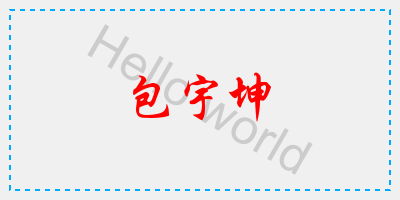
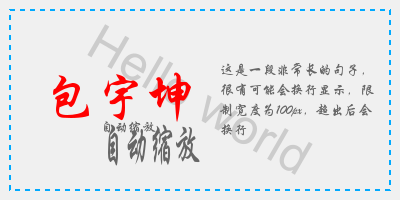
添加换行文字、缩放文字等功能

diff --git a/src/index.ts b/src/index.ts
@@ -1,12 +1,14 @@
 import { CanvasRenderingContext2D } from "canvas";
 import createCanvas from "./createCanvas";
 
-interface MutipleLineTextSettings{
-  width: number;
+interface TextSettings{
+  width?: number;
   height?: number;
+  autoScale?: boolean;
+  wrap?: boolean;
+  breakWord?: boolean;
   overflow?: 'auto' | 'hidden';
   lineHeight?: number;
-  breakWord?: true;
   align?: 'left' | 'center' | 'right';
   vAlign?: 'top' | 'middle' | 'bottom';
 }
@@ -69,7 +71,71 @@ export class Painter {
     return this
   }
 
-  mutipleLineText (text: string, x: number, y: number, options: MutipleLineTextSettings) {
+  text (content: string, x: number, y: number, options: TextSettings): Painter {
+    const { autoScale = false, wrap = true } = options
+    if (wrap && options.width) return this.mutipleLineText(content, x, y, options);
+    if (autoScale && (options.width || options.height)) return this.autoScaleText(content, x, y, options);
+
+    const fontSize = this.fontSize()
+    const {
+      width = this.measureTextWidth(content),
+      lineHeight = fontSize,
+      align = 'left',
+      vAlign = 'top',
+      overflow = 'hidden'
+    } = options
+    const height = options.height || lineHeight;
+
+    const x0 = align === 'left' ? x : align === 'center' ? x - width / 2 : x - width;
+    const y0 = vAlign === 'top' ? y : vAlign === 'middle' ? y - height / 2 : y - height;
+
+    this.ctx.save();
+    this.set({
+      textAlign: 'left',
+      textBaseline: 'top'
+    })
+    if (overflow === 'hidden') {
+      this.ctx.beginPath();
+      this.ctx.rect(x0, y0, width, height);
+      this.ctx.closePath();
+      this.ctx.clip();
+    }
+    this.ctx.fillText(content, x0, y0);
+    this.ctx.restore();
+
+    return this;
+  }
+
+  autoScaleText (text: string, x: number, y: number, options: TextSettings): Painter {
+    const fontSize = this.fontSize()
+    let {
+      width,
+      height,
+      lineHeight = fontSize,
+      align = 'left',
+      vAlign = 'top'
+    } = options
+
+    const tw = this.measureTextWidth(text);
+    if (width === undefined) width = height / lineHeight * tw;
+    if (height === undefined) height = fontSize * width / tw;
+    const x0 = align === 'left' ? x : align === 'center' ? x - width / 2 : x - width;
+    const y0 = vAlign === 'top' ? y : vAlign === 'middle' ? y - height / 2 : y - height;
+
+    this.ctx.save();
+    this.set({
+      textAlign: 'left',
+      textBaseline: 'top'
+    })
+    this.ctx.translate(x0, y0);
+    this.ctx.scale(width / tw, height / lineHeight);
+    this.ctx.fillText(text, 0, 0);
+    this.ctx.restore();
+
+    return this;
+  }
+
+  mutipleLineText (text: string, x: number, y: number, options: TextSettings): Painter {
     const originalAlign = this.ctx.textAlign;
     const originalBaseline = this.ctx.textBaseline;
     const fontSize = this.fontSize()
@@ -138,8 +204,6 @@ export class Painter {
       textAlign: originalAlign,
       textBaseline: originalBaseline
     })
-
-    console.log('multiple line text')
 
     return this
   }

diff --git a/lib/index.js b/lib/index.js
@@ -51,6 +51,53 @@ class Painter {
         }
         return this;
     }
+    text(content, x, y, options) {
+        const { autoScale = false, wrap = true } = options;
+        if (wrap && options.width)
+            return this.mutipleLineText(content, x, y, options);
+        if (autoScale && (options.width || options.height))
+            return this.autoScaleText(content, x, y, options);
+        const fontSize = this.fontSize();
+        const { width = this.measureTextWidth(content), lineHeight = fontSize, align = 'left', vAlign = 'top', overflow = 'hidden' } = options;
+        const height = options.height || lineHeight;
+        const x0 = align === 'left' ? x : align === 'center' ? x - width / 2 : x - width;
+        const y0 = vAlign === 'top' ? y : vAlign === 'middle' ? y - height / 2 : y - height;
+        this.ctx.save();
+        this.set({
+            textAlign: 'left',
+            textBaseline: 'top'
+        });
+        if (overflow === 'hidden') {
+            this.ctx.beginPath();
+            this.ctx.rect(x0, y0, width, height);
+            this.ctx.closePath();
+            this.ctx.clip();
+        }
+        this.ctx.fillText(content, x0, y0);
+        this.ctx.restore();
+        return this;
+    }
+    autoScaleText(text, x, y, options) {
+        const fontSize = this.fontSize();
+        let { width, height, lineHeight = fontSize, align = 'left', vAlign = 'top' } = options;
+        const tw = this.measureTextWidth(text);
+        if (width === undefined)
+            width = height / lineHeight * tw;
+        if (height === undefined)
+            height = fontSize * width / tw;
+        const x0 = align === 'left' ? x : align === 'center' ? x - width / 2 : x - width;
+        const y0 = vAlign === 'top' ? y : vAlign === 'middle' ? y - height / 2 : y - height;
+        this.ctx.save();
+        this.set({
+            textAlign: 'left',
+            textBaseline: 'top'
+        });
+        this.ctx.translate(x0, y0);
+        this.ctx.scale(width / tw, height / lineHeight);
+        this.ctx.fillText(text, 0, 0);
+        this.ctx.restore();
+        return this;
+    }
     mutipleLineText(text, x, y, options) {
         const originalAlign = this.ctx.textAlign;
         const originalBaseline = this.ctx.textBaseline;
@@ -107,7 +154,6 @@ class Painter {
             textAlign: originalAlign,
             textBaseline: originalBaseline
         });
-        console.log('multiple line text');
         return this;
     }
     fontSize() {

diff --git a/test/demo.node.js b/test/demo.node.js
@@ -28,14 +28,21 @@ p.fillRect(0, 0, 500, 500)
     fillStyle: '#f00',
     font: '50px xingkai',
   })
-  .fillText('包宇坤', 200, 100)
-  .set('strokeStyle', '#0af')
-  .lw(2)
-  .dash([5, 5])
-  .begin()
-  .polyline([10, 10, 390, 10, 390, 190, 10, 190])
-  .close()
-  .stroke()
+  .fillText('包宇坤', 120, 100)
+    .set('strokeStyle', '#0af')
+    .lw(2)
+    .dash([5, 5])
+    .begin()
+    .polyline([10, 10, 390, 10, 390, 190, 10, 190])
+    .close()
+    .stroke()
+    .set({
+      fillStyle: '#666',
+      font: '14px xingkai'
+    })
+    .text('这是一段非常长的句子，很有可能会换行显示，限制宽度为100px，超出后会换行', 220, 60, { width: 160, breakWord: true, lineHeight: 20 })
+    .text('自动缩放', 100, 120, { wrap: false, autoScale: true, width: 100, height: 50 })
+    .text('自动缩放', 100, 120, { wrap: false, width: 100, height: 50 })
 
 const filePath = path.resolve(__dirname, '../public/test.png');
 const out = fs.createWriteStream(filePath);

diff --git a/types/index.d.ts b/types/index.d.ts
@@ -1,10 +1,12 @@
 import { CanvasRenderingContext2D } from "canvas";
-interface MutipleLineTextSettings {
-    width: number;
+interface TextSettings {
+    width?: number;
     height?: number;
+    autoScale?: boolean;
+    wrap?: boolean;
+    breakWord?: boolean;
     overflow?: 'auto' | 'hidden';
     lineHeight?: number;
-    breakWord?: true;
     align?: 'left' | 'center' | 'right';
     vAlign?: 'top' | 'middle' | 'bottom';
 }
@@ -19,7 +21,9 @@ export declare class Painter {
     measureTextWidth(text: string): number;
     lineWidth(n: number): Painter;
     polyline(points: number[]): Painter;
-    mutipleLineText(text: string, x: number, y: number, options: MutipleLineTextSettings): this;
+    text(content: string, x: number, y: number, options: TextSettings): Painter;
+    autoScaleText(text: string, x: number, y: number, options: TextSettings): Painter;
+    mutipleLineText(text: string, x: number, y: number, options: TextSettings): Painter;
     fontSize(): number;
 }
 export {};

diff --git a/test/demo.js b/test/demo.js
@@ -35,6 +35,8 @@ document.body.onload = () => {
       fillStyle: '#666',
       font: '14px xingkai'
     })
-    .mutipleLineText('这是一段非常长的句子，很有可能会换行显示，限制宽度为100px，超出后会换行', 220, 60, { width: 160, breakWord: true, lineHeight: 20 })
+    .text('这是一段非常长的句子，很有可能会换行显示，限制宽度为100px，超出后会换行', 220, 60, { width: 160, breakWord: true, lineHeight: 20 })
+    .text('自动缩放', 100, 120, { wrap: false, autoScale: true, width: 100, height: 50 })
+    .text('自动缩放', 100, 120, { wrap: false, width: 100, height: 50 })
 }
 document.body.appendChild(p.canvas)
